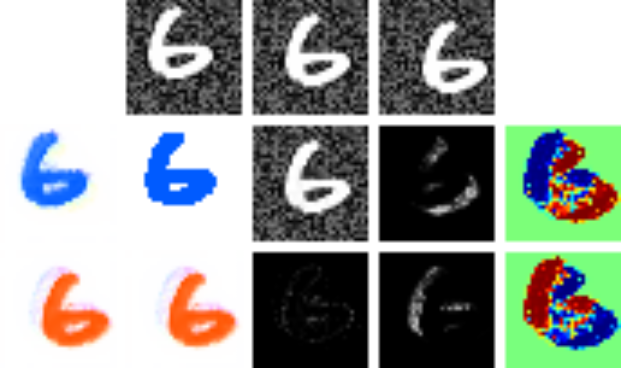
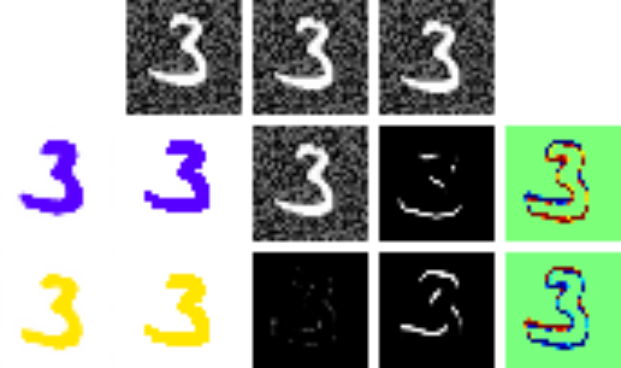
better visualization continue

diff --git a/exp016/visualize.py b/exp016/visualize.py
@@ -57,7 +57,7 @@ def visualize(im1, im2, im3, pred, pred_motion_f, gt_motion_f, disappear_f, attn
     img[y1:y2, x1:x2, :] = optical_flow / 255.0
 
     gt_motion = label2motion(gt_motion_b[0].cpu().data.numpy().squeeze(), reverse_m_dict)
-    optical_flow = flowlib.visualize_flow(pred_motion, m_range)
+    optical_flow = flowlib.visualize_flow(gt_motion, m_range)
     x1, y1, x2, y2 = get_img_coordinate(3, 2, img_size)
     img[y1:y2, x1:x2, :] = optical_flow / 255.0
 
